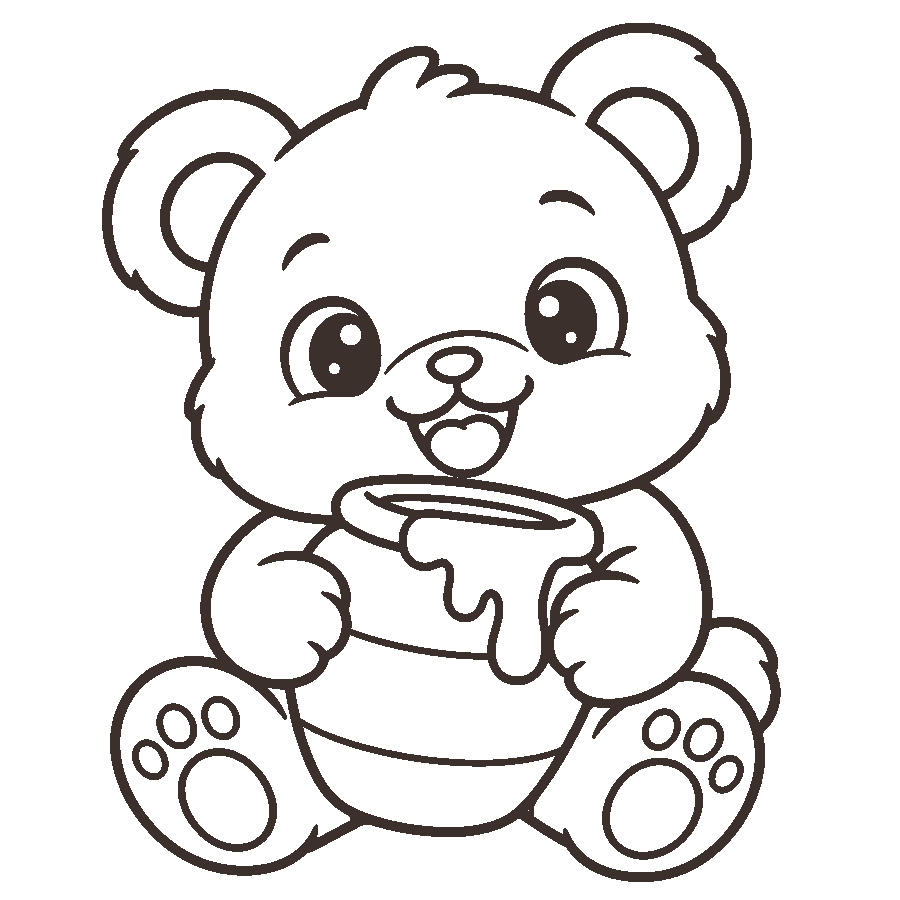
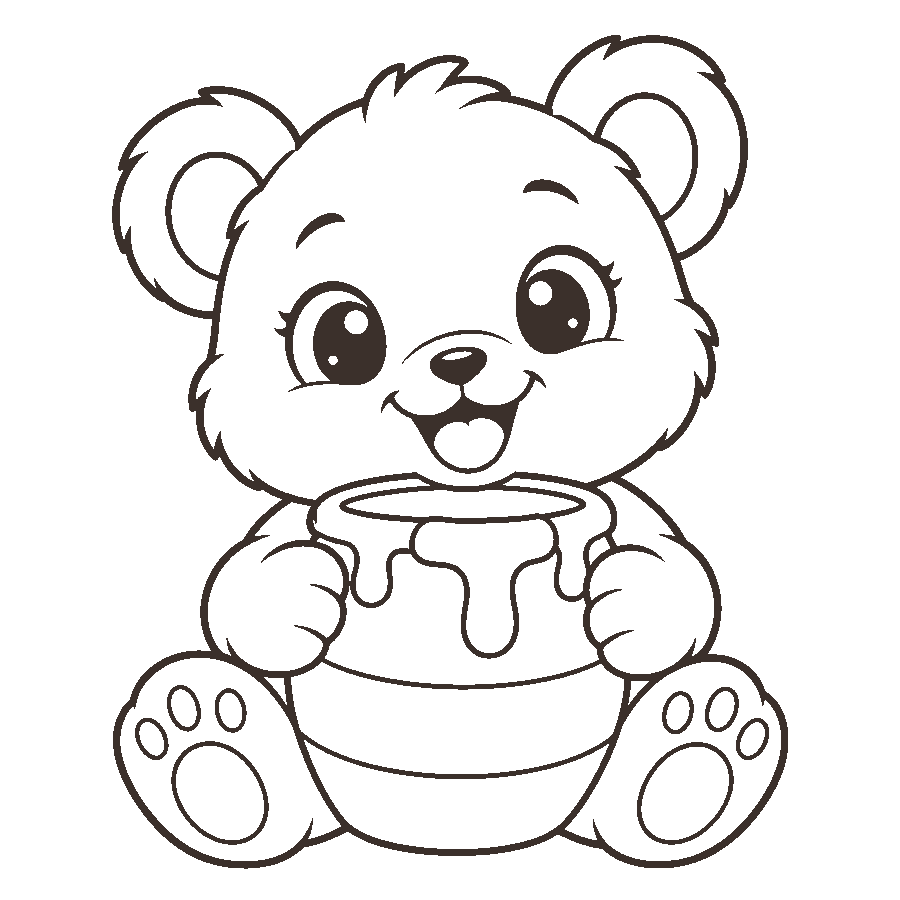
색칠하기 도안 6개 새 그림으로 교체

diff --git a/index.html b/index.html
@@ -1728,7 +1728,7 @@ if(STATS_CODE&&location.protocol.startsWith('http')&&!dressFitMode){const sc=doc
 function countPlay(g){try{if(window.goatcounter&&typeof goatcounter.count==='function')goatcounter.count({path:'play-'+g,title:(titles[g]||[g])[0],event:true})}catch(e){}}
 // 새 버전 확인: 앱으로 설치해 새로고침 버튼이 없어도, 열 때와 다시 돌아올 때 version.json을 보고 홈 화면에서 새로 고쳐요
 // 사이트를 바꿔 push할 때마다 version.json의 v와 이 값을 같은 새 값으로 올려요 (예: 2026.10.23-2)
-const APP_VERSION='2026.10.24-17';let newVersion=null,versionChecking=false;
+const APP_VERSION='2026.10.26-1';let newVersion=null,versionChecking=false;
 function versionReload(){if(!newVersion||screen!=='home')return;try{if(sessionStorage.getItem('mongle-reloaded')===newVersion)return;sessionStorage.setItem('mongle-reloaded',newVersion)}catch{return}location.replace('./?v='+encodeURIComponent(newVersion))}
 async function versionCheck(){if(versionChecking)return;versionChecking=true;try{const r=await fetch('version.json?t='+Date.now(),{cache:'no-store'});if(!r.ok)return;const v=(await r.json()).v;if(typeof v==='string'&&v&&v!==APP_VERSION){newVersion=v;versionReload()}}catch{}finally{versionChecking=false}}
 document.addEventListener('visibilitychange',()=>{if(document.visibilityState==='visible')versionCheck()});
